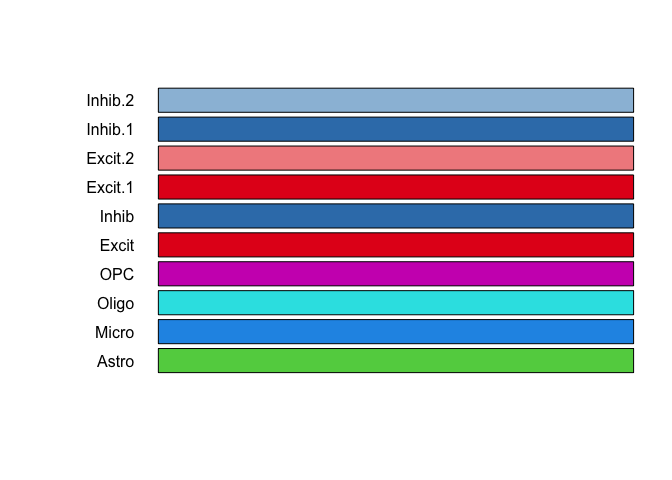
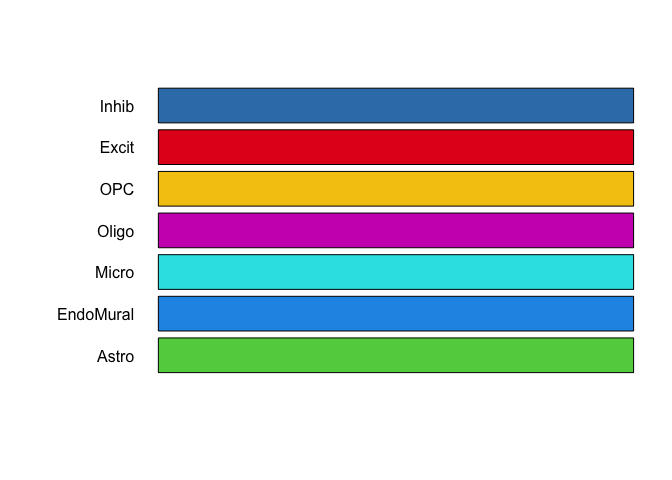
Update README with updated data & functions

diff --git a/README.md b/README.md
@@ -87,9 +87,10 @@ BiocManager::install("LieberInstitute/DeconvoBuddies")
     #>     colnames, dirname, do.call, duplicated, eval, evalq, Filter, Find,
     #>     get, grep, grepl, intersect, is.unsorted, lapply, Map, mapply,
     #>     match, mget, order, paste, pmax, pmax.int, pmin, pmin.int,
-    #>     Position, rank, rbind, Reduce, rownames, sapply, setdiff, sort,
-    #>     table, tapply, union, unique, unsplit, which.max, which.min
+    #>     Position, rank, rbind, Reduce, rownames, sapply, setdiff, table,
+    #>     tapply, union, unique, unsplit, which.max, which.min
     #> Loading required package: S4Vectors
+    #> Warning: package 'S4Vectors' was built under R version 4.4.1
     #> 
     #> Attaching package: 'S4Vectors'
     #> The following objects are masked from 'package:dplyr':
@@ -102,6 +103,7 @@ BiocManager::install("LieberInstitute/DeconvoBuddies")
     #> 
     #>     expand.grid, I, unname
     #> Loading required package: IRanges
+    #> Warning: package 'IRanges' was built under R version 4.4.1
     #> 
     #> Attaching package: 'IRanges'
     #> The following objects are masked from 'package:dplyr':
@@ -123,45 +125,37 @@ BiocManager::install("LieberInstitute/DeconvoBuddies")
     #> 
     #>     anyMissing, rowMedians
 
-Get mean ratios for each gene x cell type
+## Access Data
+
+Use `fetch_deconvo_data` Download RNA seqencing data from the Human
+DLPFC.  
+\* `rse_gene`: 110 samples of bulk RNA-seq. \* `sce` : snRNA-seq data
+from the Human DLPFC. \* `sce_DLPFC_example`: Sub-set of `sce` useful
+for testing.
 
 ``` r
-ratios <- get_mean_ratio2(sce.test)
-fc <- findMarkers_1vAll(sce.test)
-#> Inhib.2 - '2024-04-25 13:04:18.112684
-#> Inhib.1 - '2024-04-25 13:04:18.658684
-#> OPC - '2024-04-25 13:04:18.863432
-#> Astro - '2024-04-25 13:04:19.091077
-#> Excit.2 - '2024-04-25 13:04:19.313
-#> Oligo - '2024-04-25 13:04:19.496721
-#> Micro - '2024-04-25 13:04:19.681585
-#> Excit.1 - '2024-04-25 13:04:19.866671
-#> Building Table - 2024-04-25 13:04:20.061211
-#> ** Done! **
 
-(marker_stats <- left_join(ratios, fc, by = c("gene", "cellType.target")))
-#> # A tibble: 1,778 × 15
-#>    gene       cellType.target mean.target cellType  mean ratio rank_ratio Symbol
-#>    <chr>      <fct>                 <dbl> <fct>    <dbl> <dbl>      <int> <chr> 
-#>  1 ENSG00000… Inhib.2               1.00  Excit.2  0.239  4.20          1 AL139…
-#>  2 ENSG00000… Inhib.2               1.71  Astro    0.512  3.35          2 SDC3  
-#>  3 ENSG00000… Inhib.2               0.950 Astro    0.413  2.30          3 IFI44 
-#>  4 ENSG00000… Inhib.2               3.32  Astro    1.47   2.26          4 COL11…
-#>  5 ENSG00000… Inhib.2               3.55  Astro    1.62   2.19          5 NTNG1 
-#>  6 ENSG00000… Inhib.2               1.22  Excit.1  0.560  2.18          6 TRIM62
-#>  7 ENSG00000… Inhib.2               3.37  Excit.2  1.96   1.72          7 USP24 
-#>  8 ENSG00000… Inhib.2               3.42  Inhib.1  2.44   1.40          8 SPATA6
-#>  9 ENSG00000… Inhib.2               1.21  Astro    0.914  1.33          9 ABCD3 
-#> 10 ENSG00000… Inhib.2               1.21  Astro    0.920  1.32         10 GNG12 
-#> # ℹ 1,768 more rows
-#> # ℹ 7 more variables: anno_ratio <chr>, logFC <dbl>, log.p.value <dbl>,
-#> #   log.FDR <dbl>, std.logFC <dbl>, rank_marker <int>, anno_logFC <chr>
+if (!exists("sce_DLPFC_example")) sce_DLPFC_example <- fetch_deconvo_data("sce_DLPFC_example")
+#> Cannot connect to ExperimentHub server, using 'localHub=TRUE' instead
+#> Using 'localHub=TRUE'
+#>   If offline, please also see BiocManager vignette section on offline use
+#> 2024-07-24 07:12:03.580308 loading file /Users/louise.huuki/Library/Caches/org.R-project.R/R/BiocFileCache/58f79a421ca_sce_DLPFC_example.Rdata%3Frlkey%3Dv3z4u8ru0d2y12zgdl1az07q9%26st%3D1dcfqc1i%26dl%3D1
+```
+
+## Marker Finding
+
+Find cell type specific markers with `get_mean_ratio` for each gene x
+cell type, calculates the Mean Ratio of expression for each gene between
+a target cell type and the next highest cell type.
+
+``` r
+marker_stats <- get_mean_ratio(sce_DLPFC_example, cellType_col = "cellType_broad_hc")
 ```
 
 ### Extablish Color Scheme
 
 ``` r
-cell_types <- levels(sce.test$cellType)
+cell_types <- levels(sce_DLPFC_example$cellType_broad_hc)
 cell_colors <- create_cell_colors(cell_types = cell_types, pallet = "classic", split = "\\.", preview = TRUE)
 ```
 
@@ -169,25 +163,41 @@ cell_colors <- create_cell_colors(cell_types = cell_types, pallet = "classic", s
 
 ### Plot Expression of Specified Genes
 
+Quickly create violin plot of gene expression.
+
 ``` r
-sce_symbol <- sce.test
-rownames(sce_symbol) <- rowData(sce.test)$Symbol
-plot_gene_express(sce = sce_symbol, genes = c("RNF220", "CSF3R"))
+plot_gene_express(sce = sce_DLPFC_example, cat = "cellType_broad_hc", genes = c("GAD2", "CD22"))
+#> No summary function supplied, defaulting to `mean_se()`
+#> No summary function supplied, defaulting to `mean_se()`
 ```
 
 <img src="man/figures/README-plot_gene_expression-1.png" width="100%" />
 
+``` r
+plot_gene_express(sce = sce_DLPFC_example, cat = "cellType_hc", genes = c("GAD2", "CD22"))
+#> No summary function supplied, defaulting to `mean_se()`
+#> No summary function supplied, defaulting to `mean_se()`
+```
+
+<img src="man/figures/README-plot_gene_expression-2.png" width="100%" />
+
 ### Plot Expression of Marker Genes
 
+Plot the expression of top marker genes from the statistics calculated
+in `get_mean_ratio`.
+
 ``` r
-plot_marker_express(sce.test,
+plot_marker_express(sce_DLPFC_example,
     marker_stats,
-    "Astro",
-    n_genes = 5,
-    rank_col = "rank_ratio",
-    anno_col = "anno_ratio",
+    cellType_col = "cellType_broad_hc",
+    cell_type = "Excit", 
+    gene_col = "gene",
     color_pal = cell_colors
 )
+#> No summary function supplied, defaulting to `mean_se()`
+#> No summary function supplied, defaulting to `mean_se()`
+#> No summary function supplied, defaulting to `mean_se()`
+#> No summary function supplied, defaulting to `mean_se()`
 ```
 
 <img src="man/figures/README-plot_marker_expression-1.png" width="100%" />
@@ -195,9 +205,11 @@ plot_marker_express(sce.test,
 ### Create Composition Bar Plot
 
 ``` r
+# extract phenotype data
 pd <- SummarizedExperiment::colData(rse_bulk_test) %>%
     as.data.frame()
 
+# Create a long table of estimated proportion data with phenotype details
 est_prop_long <- est_prop %>%
     tibble::rownames_to_column("RNum") %>%
     tidyr::pivot_longer(!RNum, names_to = "cell_type", values_to = "prop") %>%
@@ -205,18 +217,23 @@ est_prop_long <- est_prop %>%
     dplyr::mutate(a = "a")
 #> Joining with `by = join_by(RNum)`
 
+## plot composition bar of average proportion
 plot_composition_bar(est_prop_long)
 ```
 
 <img src="man/figures/README-composition_bar_plot-1.png" width="100%" />
 
 ``` r
+
+## plot composition bar of average proportion by Dx
 plot_composition_bar(est_prop_long, x_col = "Dx")
 ```
 
 <img src="man/figures/README-composition_bar_plot-2.png" width="100%" />
 
 ``` r
+
+## Set a mininum value for adding text
 plot_composition_bar(est_prop_long, x_col = "Dx", min_prop_text = 0.1)
 ```
 
@@ -273,7 +290,7 @@ By contributing to this project, you agree to abide by its terms.
   *[rcmdcheck](https://CRAN.R-project.org/package=rcmdcheck)* customized
   to use [Bioconductor’s docker
   containers](https://www.bioconductor.org/help/docker/) and
-  *[BiocCheck](https://bioconductor.org/packages/3.18/BiocCheck)*.
+  *[BiocCheck](https://bioconductor.org/packages/3.19/BiocCheck)*.
 - Code coverage assessment is possible thanks to
   [codecov](https://codecov.io/gh) and
   *[covr](https://CRAN.R-project.org/package=covr)*.
@@ -289,4 +306,4 @@ By contributing to this project, you agree to abide by its terms.
 For more details, check the `dev` directory.
 
 This package was developed using
-*[biocthis](https://bioconductor.org/packages/3.18/biocthis)*.
+*[biocthis](https://bioconductor.org/packages/3.19/biocthis)*.
